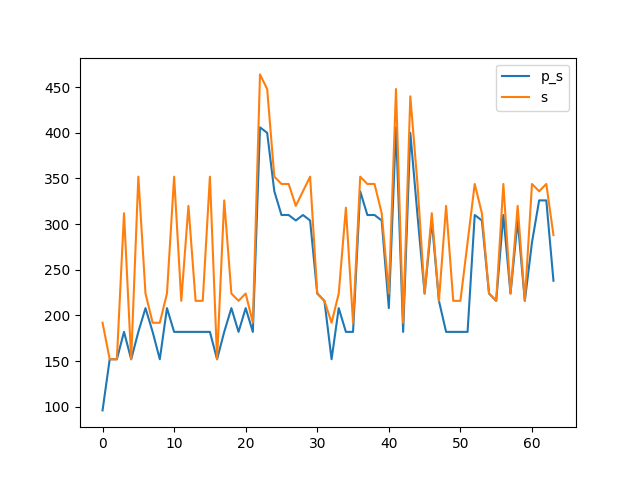
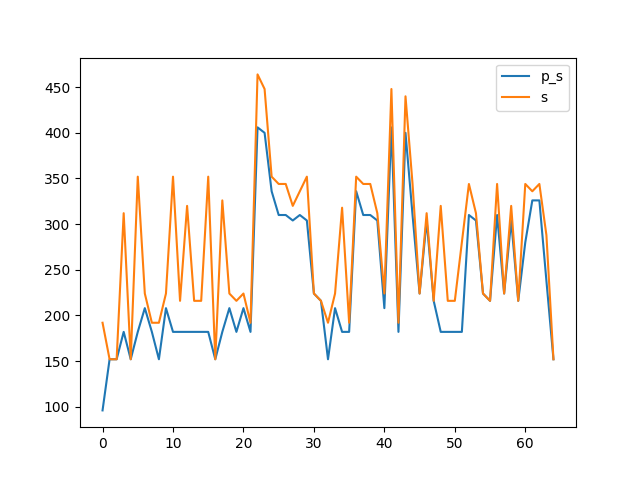
0x0040

diff --git a/benchmark.md b/benchmark.md
@@ -126,16 +126,18 @@ Synthesising 0x003E pexact:326 r=5 exact:344 r=4
 
 Synthesising 0x003F pexact:238 r=5 exact:288 r=4
 
+Synthesising 0x0040 pexact:152 r=3 exact:152 r=3
+
 ```mermaid
 xychart-beta
     title "Comparison powertwoexact twoexact"
-    x-axis [0, 1, 2, 3, 4, 5, 6, 7, 8, 9, 10, 11, 12, 13, 14, 15, 16, 17, 18, 19, 20, 21, 22, 23, 24, 25, 26, 27, 28, 29, 30, 31, 32, 33, 34, 35, 36, 37, 38, 39, 40, 41, 42, 43, 44, 45, 46, 47, 48, 49, 50, 51, 52, 53, 54, 55, 56, 57, 58, 59, 60, 61, 62, 63]
+    x-axis [0, 1, 2, 3, 4, 5, 6, 7, 8, 9, 10, 11, 12, 13, 14, 15, 16, 17, 18, 19, 20, 21, 22, 23, 24, 25, 26, 27, 28, 29, 30, 31, 32, 33, 34, 35, 36, 37, 38, 39, 40, 41, 42, 43, 44, 45, 46, 47, 48, 49, 50, 51, 52, 53, 54, 55, 56, 57, 58, 59, 60, 61, 62, 63, 64]
     y-axis "Switching Activity" 0-->464
-    line [96, 152, 152, 182, 152, 182, 208, 182, 152, 208, 182, 182, 182, 182, 182, 182, 152, 182, 208, 182, 208, 182, 406, 400, 336, 310, 310, 304, 310, 304, 224, 216, 152, 208, 182, 182, 336, 310, 310, 304, 208, 406, 182, 400, 310, 224, 304, 216, 182, 182, 182, 182, 310, 304, 224, 216, 310, 224, 304, 216, 280, 326, 326, 238]
-    line [192, 152, 152, 312, 152, 352, 224, 192, 192, 224, 352, 216, 320, 216, 216, 352, 152, 326, 224, 216, 224, 192, 464, 448, 352, 344, 344, 320, 336, 352, 224, 216, 192, 224, 318, 192, 352, 344, 344, 312, 224, 448, 192, 440, 344, 224, 312, 216, 320, 216, 216, 280, 344, 312, 224, 216, 344, 224, 320, 216, 344, 336, 344, 288]
-    line [238.0, 238.0, 238.0, 238.0, 238.0, 238.0, 238.0, 238.0, 238.0, 238.0, 238.0, 238.0, 238.0, 238.0, 238.0, 238.0, 238.0, 238.0, 238.0, 238.0, 238.0, 238.0, 238.0, 238.0, 238.0, 238.0, 238.0, 238.0, 238.0, 238.0, 238.0, 238.0, 238.0, 238.0, 238.0, 238.0, 238.0, 238.0, 238.0, 238.0, 238.0, 238.0, 238.0, 238.0, 238.0, 238.0, 238.0, 238.0, 238.0, 238.0, 238.0, 238.0, 238.0, 238.0, 238.0, 238.0, 238.0, 238.0, 238.0, 238.0, 238.0, 238.0, 238.0, 238.0]
-    line [277.6875, 277.6875, 277.6875, 277.6875, 277.6875, 277.6875, 277.6875, 277.6875, 277.6875, 277.6875, 277.6875, 277.6875, 277.6875, 277.6875, 277.6875, 277.6875, 277.6875, 277.6875, 277.6875, 277.6875, 277.6875, 277.6875, 277.6875, 277.6875, 277.6875, 277.6875, 277.6875, 277.6875, 277.6875, 277.6875, 277.6875, 277.6875, 277.6875, 277.6875, 277.6875, 277.6875, 277.6875, 277.6875, 277.6875, 277.6875, 277.6875, 277.6875, 277.6875, 277.6875, 277.6875, 277.6875, 277.6875, 277.6875, 277.6875, 277.6875, 277.6875, 277.6875, 277.6875, 277.6875, 277.6875, 277.6875, 277.6875, 277.6875, 277.6875, 277.6875, 277.6875, 277.6875, 277.6875, 277.6875]
-    bar [80, 60, 60, 80, 60, 80, 80, 80, 60, 80, 80, 80, 80, 80, 80, 80, 60, 80, 80, 80, 80, 80, 120, 120, 100, 100, 100, 100, 100, 100, 60, 60, 60, 80, 80, 80, 100, 100, 100, 100, 80, 120, 80, 120, 100, 60, 100, 60, 80, 80, 80, 80, 100, 100, 60, 60, 100, 60, 100, 60, 80, 100, 100, 100]
-    bar [80, 60, 60, 80, 60, 80, 60, 60, 60, 60, 80, 60, 80, 60, 60, 80, 60, 80, 60, 60, 60, 60, 100, 100, 80, 80, 80, 80, 80, 80, 60, 60, 60, 60, 80, 60, 80, 80, 80, 80, 60, 100, 60, 100, 80, 60, 80, 60, 80, 60, 60, 80, 80, 80, 60, 60, 80, 60, 80, 60, 80, 80, 80, 80]
+    line [96, 152, 152, 182, 152, 182, 208, 182, 152, 208, 182, 182, 182, 182, 182, 182, 152, 182, 208, 182, 208, 182, 406, 400, 336, 310, 310, 304, 310, 304, 224, 216, 152, 208, 182, 182, 336, 310, 310, 304, 208, 406, 182, 400, 310, 224, 304, 216, 182, 182, 182, 182, 310, 304, 224, 216, 310, 224, 304, 216, 280, 326, 326, 238, 152]
+    line [192, 152, 152, 312, 152, 352, 224, 192, 192, 224, 352, 216, 320, 216, 216, 352, 152, 326, 224, 216, 224, 192, 464, 448, 352, 344, 344, 320, 336, 352, 224, 216, 192, 224, 318, 192, 352, 344, 344, 312, 224, 448, 192, 440, 344, 224, 312, 216, 320, 216, 216, 280, 344, 312, 224, 216, 344, 224, 320, 216, 344, 336, 344, 288, 152]
+    line [236.6769230769231, 236.6769230769231, 236.6769230769231, 236.6769230769231, 236.6769230769231, 236.6769230769231, 236.6769230769231, 236.6769230769231, 236.6769230769231, 236.6769230769231, 236.6769230769231, 236.6769230769231, 236.6769230769231, 236.6769230769231, 236.6769230769231, 236.6769230769231, 236.6769230769231, 236.6769230769231, 236.6769230769231, 236.6769230769231, 236.6769230769231, 236.6769230769231, 236.6769230769231, 236.6769230769231, 236.6769230769231, 236.6769230769231, 236.6769230769231, 236.6769230769231, 236.6769230769231, 236.6769230769231, 236.6769230769231, 236.6769230769231, 236.6769230769231, 236.6769230769231, 236.6769230769231, 236.6769230769231, 236.6769230769231, 236.6769230769231, 236.6769230769231, 236.6769230769231, 236.6769230769231, 236.6769230769231, 236.6769230769231, 236.6769230769231, 236.6769230769231, 236.6769230769231, 236.6769230769231, 236.6769230769231, 236.6769230769231, 236.6769230769231, 236.6769230769231, 236.6769230769231, 236.6769230769231, 236.6769230769231, 236.6769230769231, 236.6769230769231, 236.6769230769231, 236.6769230769231, 236.6769230769231, 236.6769230769231, 236.6769230769231, 236.6769230769231, 236.6769230769231, 236.6769230769231, 236.6769230769231]
+    line [275.75384615384615, 275.75384615384615, 275.75384615384615, 275.75384615384615, 275.75384615384615, 275.75384615384615, 275.75384615384615, 275.75384615384615, 275.75384615384615, 275.75384615384615, 275.75384615384615, 275.75384615384615, 275.75384615384615, 275.75384615384615, 275.75384615384615, 275.75384615384615, 275.75384615384615, 275.75384615384615, 275.75384615384615, 275.75384615384615, 275.75384615384615, 275.75384615384615, 275.75384615384615, 275.75384615384615, 275.75384615384615, 275.75384615384615, 275.75384615384615, 275.75384615384615, 275.75384615384615, 275.75384615384615, 275.75384615384615, 275.75384615384615, 275.75384615384615, 275.75384615384615, 275.75384615384615, 275.75384615384615, 275.75384615384615, 275.75384615384615, 275.75384615384615, 275.75384615384615, 275.75384615384615, 275.75384615384615, 275.75384615384615, 275.75384615384615, 275.75384615384615, 275.75384615384615, 275.75384615384615, 275.75384615384615, 275.75384615384615, 275.75384615384615, 275.75384615384615, 275.75384615384615, 275.75384615384615, 275.75384615384615, 275.75384615384615, 275.75384615384615, 275.75384615384615, 275.75384615384615, 275.75384615384615, 275.75384615384615, 275.75384615384615, 275.75384615384615, 275.75384615384615, 275.75384615384615, 275.75384615384615]
+    bar [80, 60, 60, 80, 60, 80, 80, 80, 60, 80, 80, 80, 80, 80, 80, 80, 60, 80, 80, 80, 80, 80, 120, 120, 100, 100, 100, 100, 100, 100, 60, 60, 60, 80, 80, 80, 100, 100, 100, 100, 80, 120, 80, 120, 100, 60, 100, 60, 80, 80, 80, 80, 100, 100, 60, 60, 100, 60, 100, 60, 80, 100, 100, 100, 60]
+    bar [80, 60, 60, 80, 60, 80, 60, 60, 60, 60, 80, 60, 80, 60, 60, 80, 60, 80, 60, 60, 60, 60, 100, 100, 80, 80, 80, 80, 80, 80, 60, 60, 60, 60, 80, 60, 80, 80, 80, 80, 60, 100, 60, 100, 80, 60, 80, 60, 80, 60, 60, 80, 80, 80, 60, 60, 80, 60, 80, 60, 80, 80, 80, 80, 60]
 ```
 
